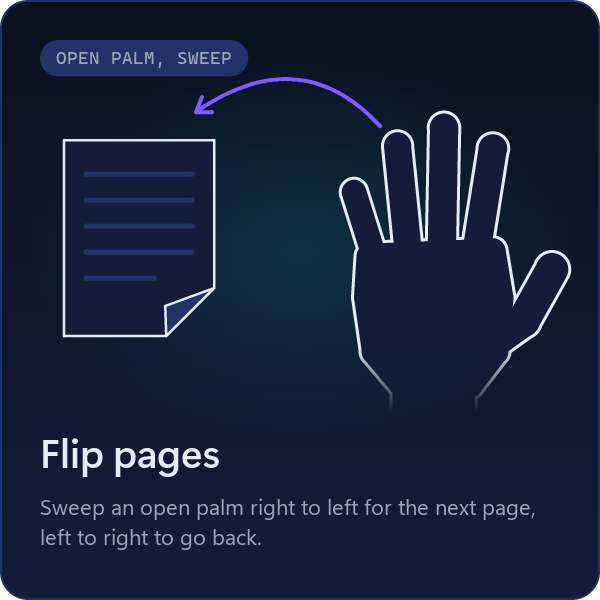
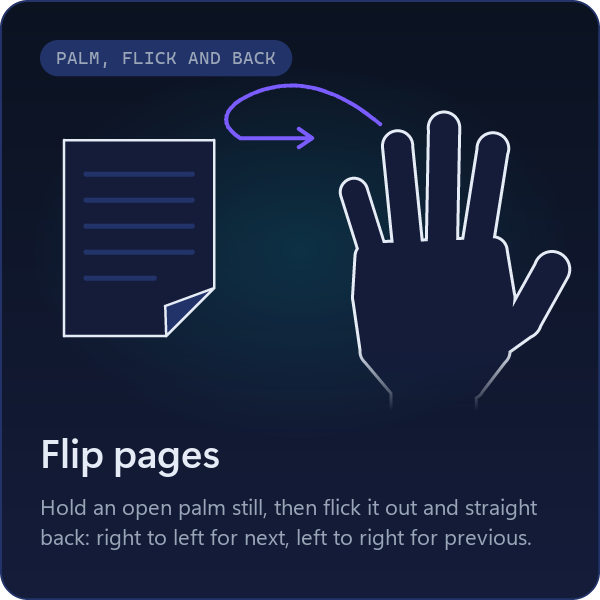
1.1.1: the README and the flip card teach the flick out and back, and the privacy policy lists status.json

diff --git a/README.md b/README.md
@@ -42,7 +42,7 @@ zoom and switch apps with a gesture.**
 <td><img src=".github/media/gestures/05-fist-zoom.png" width="100%"><br><b>Fist zoom</b><br>Make a fist and hold still, then pull back to zoom in or push forward to zoom out.</td>
 <td><img src=".github/media/gestures/06-two-hand-zoom.png" width="100%"><br><b>Two-hand zoom</b><br>Pinch with both hands, then move them apart or together.</td>
 <td><img src=".github/media/gestures/07-app-switch.png" width="100%"><br><b>Switch apps</b><br>Hold up three fingers and swipe to step through your open windows.</td>
-<td><img src=".github/media/gestures/08-page-flip.png" width="100%"><br><b>Flip pages</b><br>Sweep an open palm right to left for the next page, left to right to go back.</td>
+<td><img src=".github/media/gestures/08-page-flip.png" width="100%"><br><b>Flip pages</b><br>Hold an open palm still, then flick it out and straight back: right to left for next, left to right for previous.</td>
 </tr>
 </table>
 
